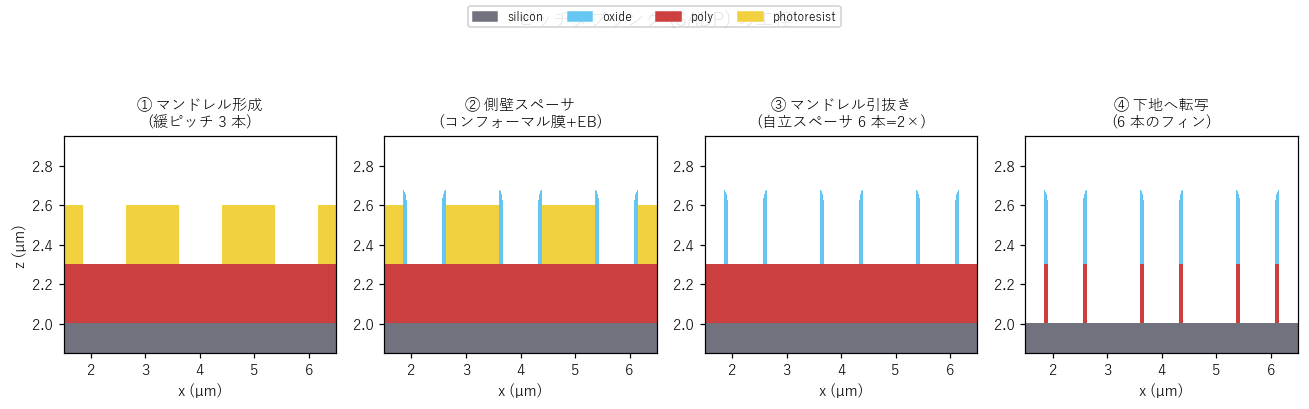
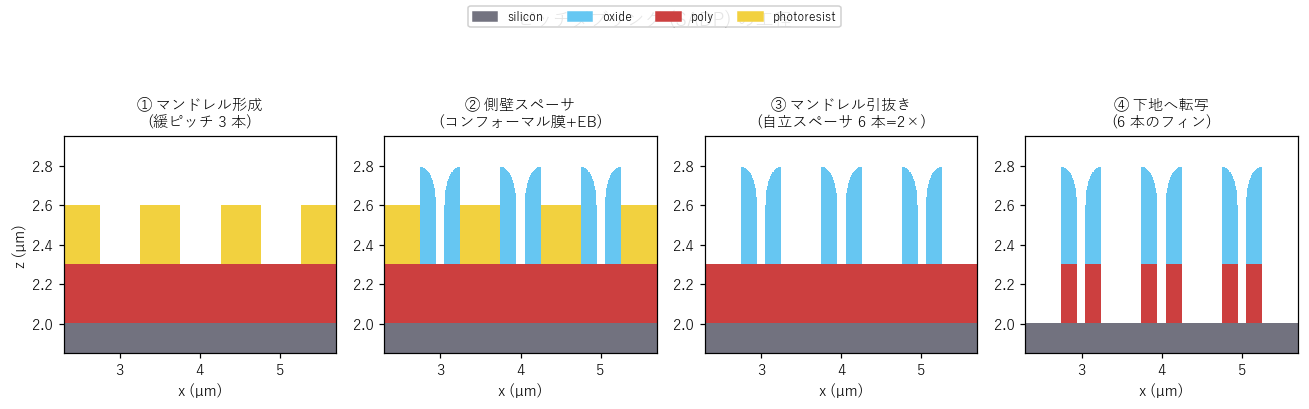
改善: SADP 図のライン:スペースを均等化（細スパイク解消） (#94)
スペーサ幅 0.08µm が狭すぎ、フィンが細いスパイク・スペースが過大で
ライン:スペース≒1:5 のインバランスな見た目だった。

スペーサ 0.20µm・マンドレル幅 0.5µm・ピッチ 1.0µm に調整し、ライン:
スペース≒1:1.4 の現実的なフィンに。3 本のマンドレル→6 本のフィンの
ピッチ半減はそのまま、見やすい寸法バランスにした。表示も拡大。

diff --git a/tools/build_manual.py b/tools/build_manual.py
@@ -277,9 +277,12 @@ def demos() -> list:
         # の各段階を見ないと伝わらないので、工程を Step-by-Step で並べて描く。
         r = Recipe(config=cfg())
         r.add(CVD(material="poly", thickness_um=0.30))            # 0 被パターン層
-        r.add(Photo(mask=_mandrel_mask([0.28, 0.5, 0.72], 0.10),
+        # マンドレル幅 0.5µm・ピッチ 1.0µm、スペーサ 0.20µm。スペーサ幅＝最終
+        # 線幅なので、これでライン:スペースがほぼ均等(≒1:1.4)の現実的なフィンに
+        # なる（細すぎるスパイクと広すぎる隙間を解消）。中心 3.0/4.0/5.0µm。
+        r.add(Photo(mask=_mandrel_mask([0.375, 0.5, 0.625], 0.0625),
                     thickness_um=0.30, polarity="positive"))      # 1 マンドレル
-        r.add(Spacer(material="oxide", thickness_um=0.08, overetch_um=0.02))  # 2 スペーサ
+        r.add(Spacer(material="oxide", thickness_um=0.20, overetch_um=0.02))  # 2 スペーサ
         r.add(Strip(material="photoresist"))                      # 3 マンドレル引抜き
         r.add(DryEtch(targets=["poly"], depth_um=0.32))           # 4 下地へ転写
         stages = [
@@ -290,7 +293,7 @@ def demos() -> list:
         ]
         # 3 本のマンドレル→6 本のフィン全体が入るよう拡大（ピッチ半減が分かる）
         render_steps(stages, "ピッチダブリング (SADP) の工程",
-                     "sadp.png", ylim=(1.85, 2.95), xlim=(1.5, 6.5))
+                     "sadp.png", ylim=(1.85, 2.95), xlim=(2.3, 5.7))
         return stages[-1][1]
     items.append((
         "sadp", "ピッチダブリング (SADP / 自己整合ダブルパターニング)", "微細化",
